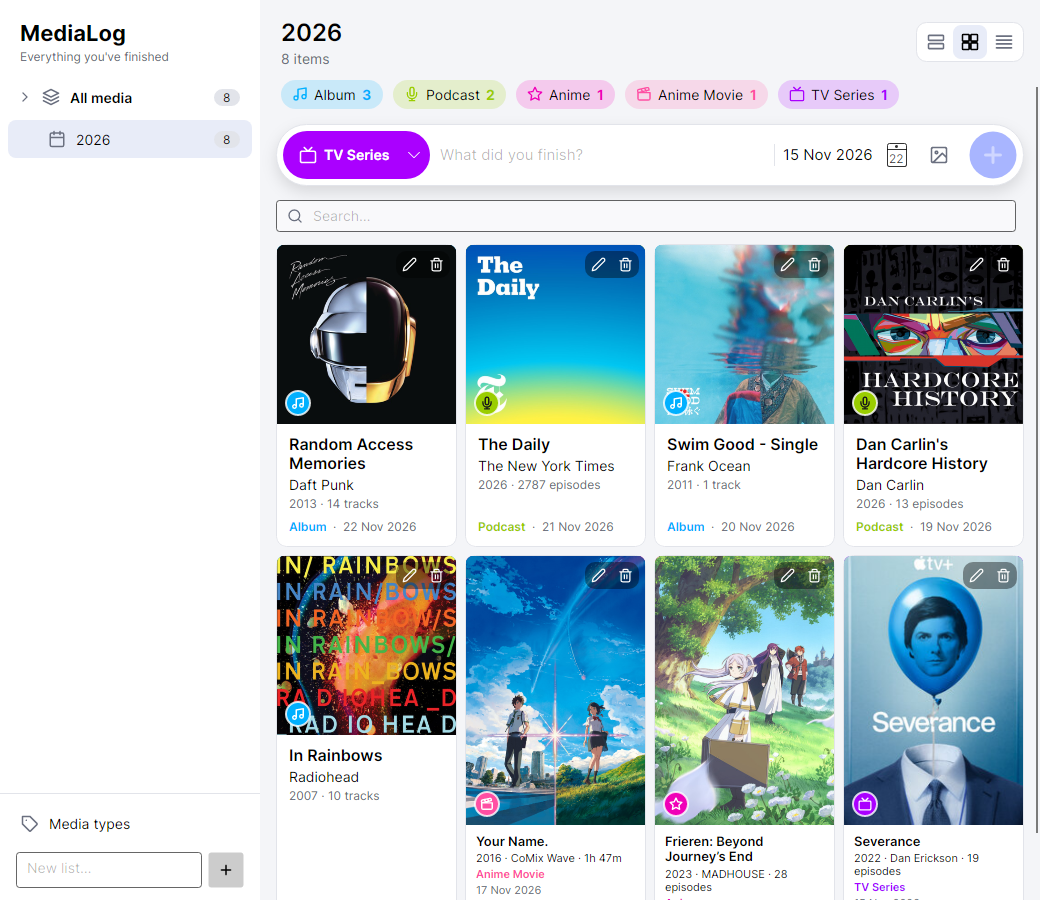
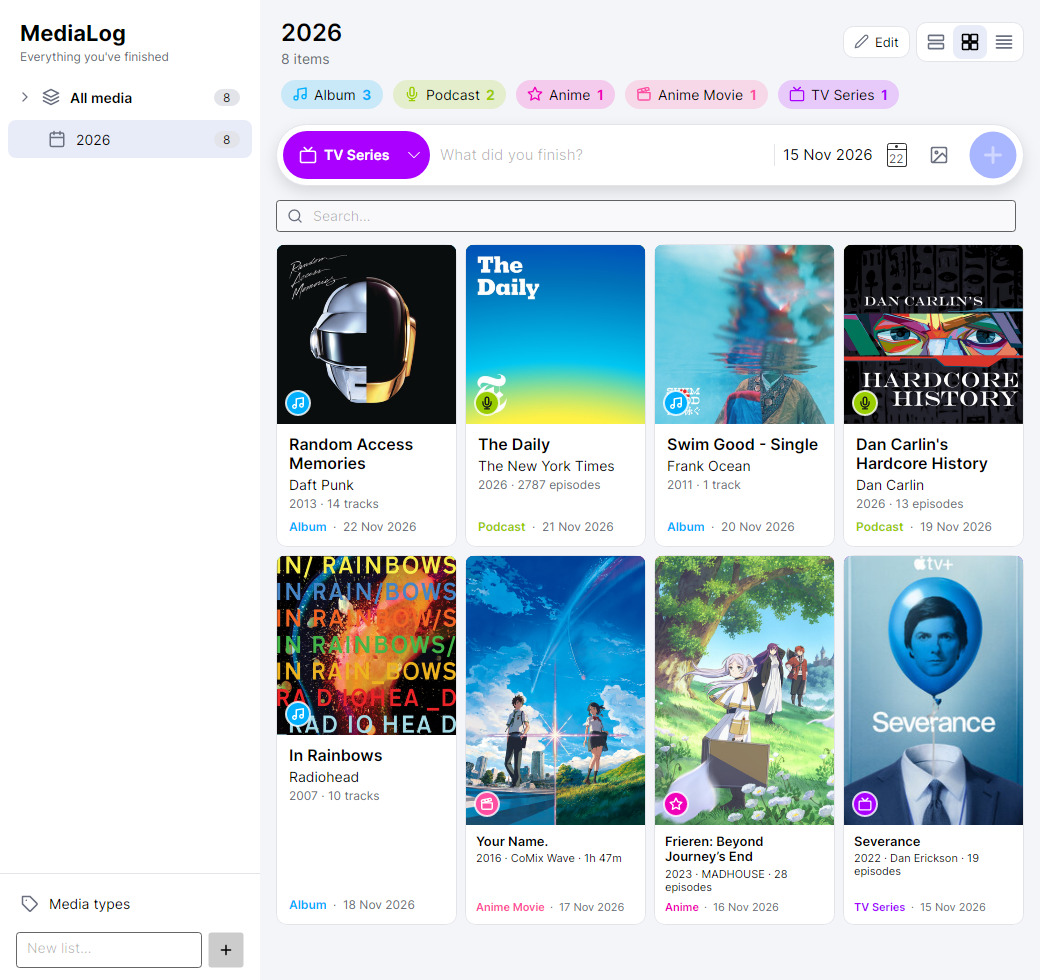
MediaLog: edit mode toggle, type and date on one line in tiles
- Edit / delete buttons on entries are hidden by default; an Edit button
  in the header shows them on every entry (Done hides them again).
- Poster tiles use the same footer as album tiles: type and date on one
  line, pinned to the bottom of the tile.

Claude-Session: https://claude.ai/code/session_01NWBCcXr1uMHCvRDya14kEE

diff --git a/apps/MediaLog/MediaLog/ViewModels/MainViewModel.cs b/apps/MediaLog/MediaLog/ViewModels/MainViewModel.cs
@@ -495,6 +495,27 @@ public partial class MainViewModel : ViewModelBase
     }
 
     // ==========================================================================
+    // Edit mode
+    // ==========================================================================
+
+    /// <summary>When on, every entry shows its edit / delete buttons.</summary>
+    [ObservableProperty]
+    [NotifyPropertyChangedFor(nameof(EditModeText), nameof(EditModeIcon))]
+    public partial bool IsEditMode { get; set; }
+
+    public string EditModeText => IsEditMode ? "Done" : "Edit";
+    public Geometry EditModeIcon => IsEditMode ? Controls.Icons.Check : Controls.Icons.Pencil;
+
+    [RelayCommand]
+    private void ToggleEditMode() => IsEditMode = !IsEditMode;
+
+    partial void OnIsEditModeChanged(bool value)
+    {
+        foreach (var entry in Entries)
+            entry.ShowActions = value;
+    }
+
+    // ==========================================================================
     // Entry editor
     // ==========================================================================
 
@@ -861,7 +882,8 @@ public partial class MainViewModel : ViewModelBase
 
             Entries.Clear();
             foreach (var (entry, list) in visible)
-                Entries.Add(new EntryViewModel(entry, TypeFor(entry.Kind), list, list != SelectedNav, DeleteEntry, OpenEditor));
+                Entries.Add(new EntryViewModel(entry, TypeFor(entry.Kind), list, list != SelectedNav, DeleteEntry, OpenEditor)
+                    { ShowActions = IsEditMode });
 
             var noun = ScopeCount == 1 ? "item" : "items";
             CountText = IsFiltered ? $"{visible.Count} of {ScopeCount} {noun}" : $"{ScopeCount} {noun}";

diff --git a/apps/MediaLog/MediaLog/ViewModels/EntryViewModel.cs b/apps/MediaLog/MediaLog/ViewModels/EntryViewModel.cs
@@ -63,6 +63,10 @@ public partial class EntryViewModel : ViewModelBase
 
     public string DateText => Model.CompletedOn.ToString("d MMM yyyy", CultureInfo.CurrentCulture);
 
+    /// <summary>Edit / delete buttons are only shown in edit mode.</summary>
+    [ObservableProperty]
+    public partial bool ShowActions { get; set; }
+
     /// <summary>Cover image, once downloaded (or from cache).</summary>
     [ObservableProperty]
     [NotifyPropertyChangedFor(nameof(HasImage))]

diff --git a/apps/MediaLog/README.md b/apps/MediaLog/README.md
@@ -34,7 +34,8 @@ documentaries, audiobooks…
 - **All media (master list)** – every entry from every list, with the **total count** and a color‑coded counter per type.
   The arrow next to it expands one list per type (only types with entries). **Pin** a type list to keep
   it in the sidebar even when "All media" is collapsed.
-- **Editing** – the pencil on any entry opens an editor for title, type, date and list (moving it
+- **Editing** – the **Edit** button at the top shows edit / delete buttons on every entry (hidden
+  otherwise); the pencil opens an editor for title, type, date and list (moving it
   between lists), plus a **cover image**: *Find images* searches online by title and shows a grid of
   suggestions to pick from (or paste any image link). Covers show in tiles mode (2:3 posters and book covers, 1:1 for albums and podcasts with a roomier
   info layout) and as the entry badge,
